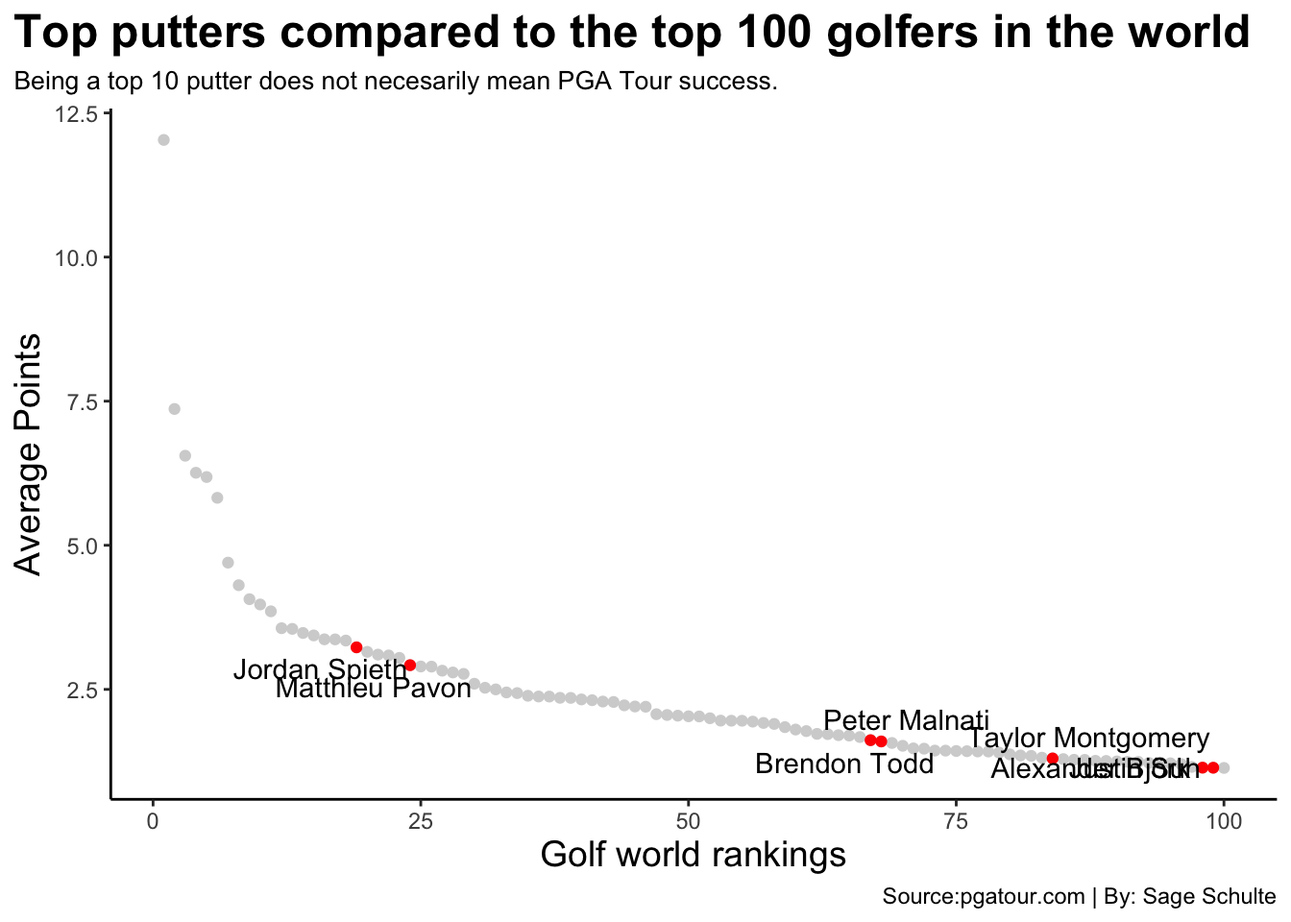
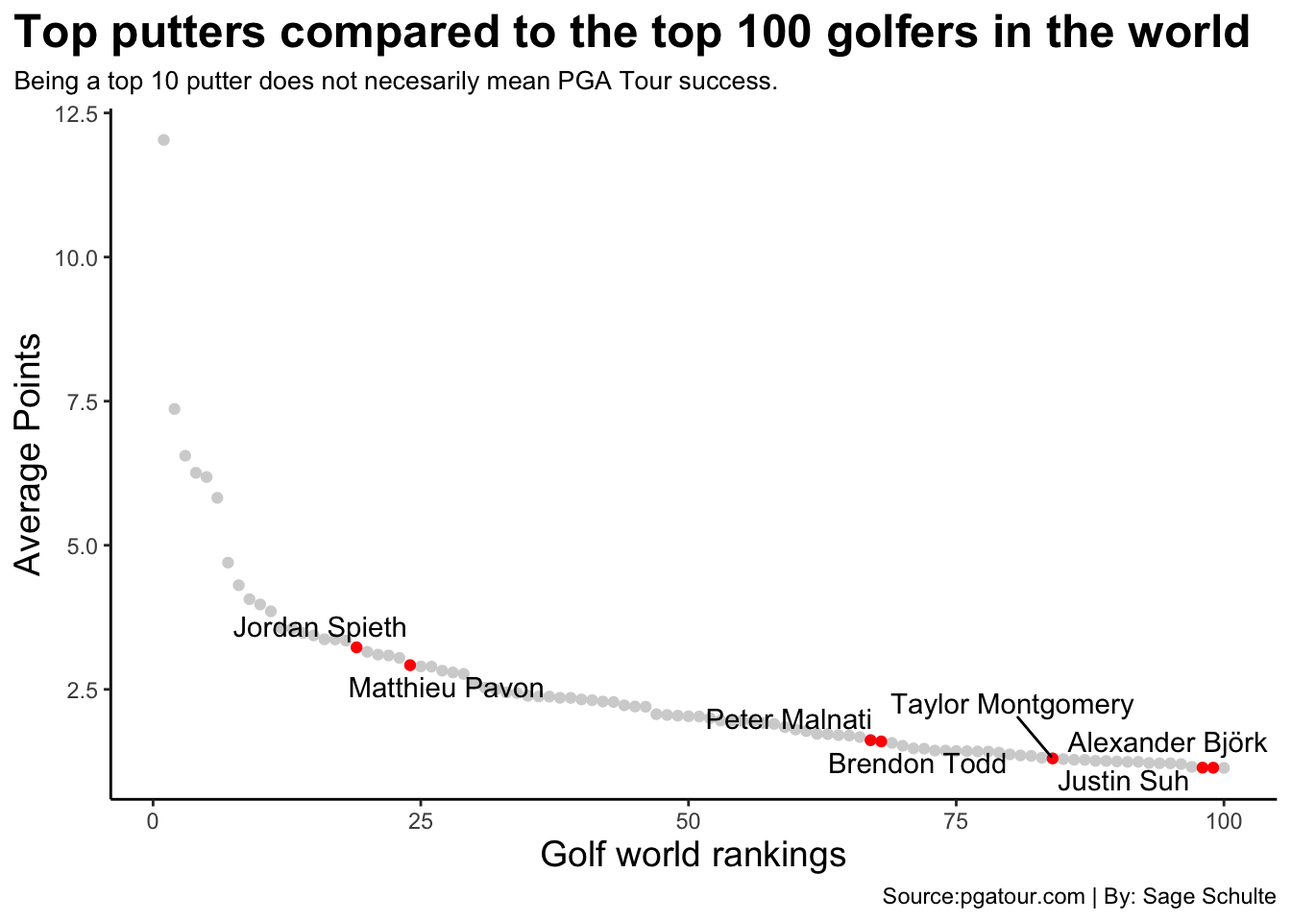
final draft

Changed region(s): [[0.5312, 0.75, 0.9688, 0.875], [0.1875, 0.6562, 0.4062, 0.7812]]

diff --git a/posts/are-good-putters-the-best-golfers/index.html b/posts/are-good-putters-the-best-golfers/index.html
@@ -9,7 +9,7 @@
 <meta name="author" content="Sage Schulte">
 <meta name="dcterms.date" content="2024-04-14">
 
-<title>Sage Schulte’s sports data site - Does being a top ranked putter equate to PGA tournament success?</title>
+<title>Sage Schulte’s sports data site - Does being great at putting equate to PGA tournament success?</title>
 <style>
 code{white-space: pre-wrap;}
 span.smallcaps{font-variant: small-caps;}
@@ -149,7 +149,7 @@ pre > code.sourceCode > span > a:first-child::before { text-decoration: underlin
 <header id="title-block-header" class="quarto-title-block default page-columns page-full">
   <div class="quarto-title-banner page-columns page-full">
     <div class="quarto-title column-body">
-      <h1 class="title">Does being a top ranked putter equate to PGA tournament success?</h1>
+      <h1 class="title">Does being great at putting equate to PGA tournament success?</h1>
                                 <div class="quarto-categories">
                 <div class="quarto-category">golf</div>
                 <div class="quarto-category">putting</div>
@@ -190,7 +190,9 @@ pre > code.sourceCode > span > a:first-child::before { text-decoration: underlin
 
 
 
-<p>text here……</p>
+<p>There is a famous expression in the world of golf; drive for show, putt for dough. Does this expression hold any weight or is it just something people say when they top their drive off the tee box to make up for their atrocious shot? To find out if this expression is just an expression or something more, let’s use data to reach a clearer conclusion. The PGA website has the data needed for this.</p>
+<p>The PGA tour website has a statistics section, and the best way to determine if a player is good at putting is the strokes gained putting (SG: Putting) statistic. Strokes gained putting basically means if a player has a putt from say 10 feet, the SG: Putting data algorithm will state how many strokes it will take to hole out from that distance and from that specific spot on that specific green. For example; Tiger Woods has a putt from seven feet and the SG: Putting baseline is 1.5 putts to hole out. If Woods makes the putt in one stroke, he gains +0.5 to his SG Putting and if it takes him 2 strokes then he would lose 0.5.</p>
+<p>So, let’s look at the top 100 golfers in the world and see where, and if, the top 10 putters according to strokes gained putting average are anywhere in the top 100 world golfers this year.</p>
 <div class="cell">
 <details class="code-fold">
 <summary>Code</summary>
@@ -216,37 +218,33 @@ pre > code.sourceCode > span > a:first-child::before { text-decoration: underlin
 <span id="cb1-20"><a href="#cb1-20" aria-hidden="true" tabindex="-1"></a>jsu <span class="ot">&lt;-</span> top100 <span class="sc">|&gt;</span> <span class="fu">filter</span>(PLAYER<span class="sc">==</span> <span class="st">"Justin Suh"</span>)</span>
 <span id="cb1-21"><a href="#cb1-21" aria-hidden="true" tabindex="-1"></a>bt <span class="ot">&lt;-</span> top100 <span class="sc">|&gt;</span> <span class="fu">filter</span>(PLAYER<span class="sc">==</span> <span class="st">"Brendon Todd"</span>)</span>
 <span id="cb1-22"><a href="#cb1-22" aria-hidden="true" tabindex="-1"></a></span>
-<span id="cb1-23"><a href="#cb1-23" aria-hidden="true" tabindex="-1"></a><span class="fu">ggplot</span>() <span class="sc">+</span></span>
-<span id="cb1-24"><a href="#cb1-24" aria-hidden="true" tabindex="-1"></a>  <span class="fu">geom_point</span>(<span class="at">data=</span>top100, <span class="fu">aes</span>(<span class="at">x=</span>NK, <span class="at">y=</span><span class="st">`</span><span class="at">AVG POINTS</span><span class="st">`</span>), <span class="at">color=</span><span class="st">"lightgrey"</span>) <span class="sc">+</span></span>
-<span id="cb1-25"><a href="#cb1-25" aria-hidden="true" tabindex="-1"></a>  <span class="fu">geom_point</span>(<span class="at">data=</span>tm, <span class="fu">aes</span>(<span class="at">x=</span>NK, <span class="at">y=</span><span class="st">`</span><span class="at">AVG POINTS</span><span class="st">`</span>), <span class="at">color=</span><span class="st">"red"</span>) <span class="sc">+</span></span>
-<span id="cb1-26"><a href="#cb1-26" aria-hidden="true" tabindex="-1"></a>  <span class="fu">geom_point</span>(<span class="at">data=</span>pm, <span class="fu">aes</span>(<span class="at">x=</span>NK, <span class="at">y=</span><span class="st">`</span><span class="at">AVG POINTS</span><span class="st">`</span>), <span class="at">color=</span><span class="st">"red"</span>) <span class="sc">+</span></span>
-<span id="cb1-27"><a href="#cb1-27" aria-hidden="true" tabindex="-1"></a>  <span class="fu">geom_point</span>(<span class="at">data=</span>mp, <span class="fu">aes</span>(<span class="at">x=</span>NK, <span class="at">y=</span><span class="st">`</span><span class="at">AVG POINTS</span><span class="st">`</span>), <span class="at">color=</span><span class="st">"red"</span>) <span class="sc">+</span></span>
-<span id="cb1-28"><a href="#cb1-28" aria-hidden="true" tabindex="-1"></a>  <span class="fu">geom_point</span>(<span class="at">data=</span>js, <span class="fu">aes</span>(<span class="at">x=</span>NK, <span class="at">y=</span><span class="st">`</span><span class="at">AVG POINTS</span><span class="st">`</span>), <span class="at">color=</span><span class="st">"red"</span>) <span class="sc">+</span></span>
-<span id="cb1-29"><a href="#cb1-29" aria-hidden="true" tabindex="-1"></a>  <span class="fu">geom_point</span>(<span class="at">data=</span>abj, <span class="fu">aes</span>(<span class="at">x=</span>NK, <span class="at">y=</span><span class="st">`</span><span class="at">AVG POINTS</span><span class="st">`</span>), <span class="at">color=</span><span class="st">"red"</span>) <span class="sc">+</span></span>
-<span id="cb1-30"><a href="#cb1-30" aria-hidden="true" tabindex="-1"></a>  <span class="fu">geom_point</span>(<span class="at">data=</span>jsu, <span class="fu">aes</span>(<span class="at">x=</span>NK, <span class="at">y=</span><span class="st">`</span><span class="at">AVG POINTS</span><span class="st">`</span>), <span class="at">color=</span><span class="st">"red"</span>) <span class="sc">+</span></span>
-<span id="cb1-31"><a href="#cb1-31" aria-hidden="true" tabindex="-1"></a>  <span class="fu">geom_point</span>(<span class="at">data=</span>bt, <span class="fu">aes</span>(<span class="at">x=</span>NK, <span class="at">y=</span><span class="st">`</span><span class="at">AVG POINTS</span><span class="st">`</span>), <span class="at">color=</span><span class="st">"red"</span>) <span class="sc">+</span></span>
-<span id="cb1-32"><a href="#cb1-32" aria-hidden="true" tabindex="-1"></a>  <span class="fu">geom_text_repel</span>(<span class="at">data=</span>tm, <span class="fu">aes</span>(<span class="at">x=</span>NK, <span class="at">y=</span><span class="st">`</span><span class="at">AVG POINTS</span><span class="st">`</span>, <span class="at">label=</span>PLAYER)) <span class="sc">+</span></span>
-<span id="cb1-33"><a href="#cb1-33" aria-hidden="true" tabindex="-1"></a>   <span class="fu">geom_text_repel</span>(<span class="at">data=</span>pm, <span class="fu">aes</span>(<span class="at">x=</span>NK, <span class="at">y=</span><span class="st">`</span><span class="at">AVG POINTS</span><span class="st">`</span>, <span class="at">label=</span>PLAYER)) <span class="sc">+</span></span>
-<span id="cb1-34"><a href="#cb1-34" aria-hidden="true" tabindex="-1"></a>   <span class="fu">geom_text_repel</span>(<span class="at">data=</span>mp, <span class="fu">aes</span>(<span class="at">x=</span>NK, <span class="at">y=</span><span class="st">`</span><span class="at">AVG POINTS</span><span class="st">`</span>, <span class="at">label=</span>PLAYER)) <span class="sc">+</span></span>
-<span id="cb1-35"><a href="#cb1-35" aria-hidden="true" tabindex="-1"></a>   <span class="fu">geom_text_repel</span>(<span class="at">data=</span>js, <span class="fu">aes</span>(<span class="at">x=</span>NK, <span class="at">y=</span><span class="st">`</span><span class="at">AVG POINTS</span><span class="st">`</span>, <span class="at">label=</span>PLAYER)) <span class="sc">+</span></span>
-<span id="cb1-36"><a href="#cb1-36" aria-hidden="true" tabindex="-1"></a>   <span class="fu">geom_text_repel</span>(<span class="at">data=</span>abj, <span class="fu">aes</span>(<span class="at">x=</span>NK, <span class="at">y=</span><span class="st">`</span><span class="at">AVG POINTS</span><span class="st">`</span>, <span class="at">label=</span>PLAYER)) <span class="sc">+</span></span>
-<span id="cb1-37"><a href="#cb1-37" aria-hidden="true" tabindex="-1"></a>   <span class="fu">geom_text_repel</span>(<span class="at">data=</span>jsu, <span class="fu">aes</span>(<span class="at">x=</span>NK, <span class="at">y=</span><span class="st">`</span><span class="at">AVG POINTS</span><span class="st">`</span>, <span class="at">label=</span>PLAYER)) <span class="sc">+</span></span>
-<span id="cb1-38"><a href="#cb1-38" aria-hidden="true" tabindex="-1"></a>   <span class="fu">geom_text_repel</span>(<span class="at">data=</span>bt, <span class="fu">aes</span>(<span class="at">x=</span>NK, <span class="at">y=</span><span class="st">`</span><span class="at">AVG POINTS</span><span class="st">`</span>, <span class="at">label=</span>PLAYER)) <span class="sc">+</span></span>
-<span id="cb1-39"><a href="#cb1-39" aria-hidden="true" tabindex="-1"></a>  <span class="fu">labs</span>(</span>
-<span id="cb1-40"><a href="#cb1-40" aria-hidden="true" tabindex="-1"></a>    <span class="at">x=</span><span class="st">"Golf world rankings"</span>,</span>
-<span id="cb1-41"><a href="#cb1-41" aria-hidden="true" tabindex="-1"></a>    <span class="at">y=</span><span class="st">"Average Points"</span>,</span>
-<span id="cb1-42"><a href="#cb1-42" aria-hidden="true" tabindex="-1"></a>    <span class="at">title=</span><span class="st">"Top putters compared to the top 100 golfers in the world"</span>,</span>
-<span id="cb1-43"><a href="#cb1-43" aria-hidden="true" tabindex="-1"></a>    <span class="at">subtitle=</span><span class="st">"Being a top 10 putter does not necesarily mean PGA Tour success."</span>,</span>
-<span id="cb1-44"><a href="#cb1-44" aria-hidden="true" tabindex="-1"></a>    <span class="at">caption=</span><span class="st">"Source:pgatour.com | By: Sage Schulte"</span></span>
-<span id="cb1-45"><a href="#cb1-45" aria-hidden="true" tabindex="-1"></a>  ) <span class="sc">+</span></span>
-<span id="cb1-46"><a href="#cb1-46" aria-hidden="true" tabindex="-1"></a>  <span class="fu">theme_classic</span>() <span class="sc">+</span></span>
-<span id="cb1-47"><a href="#cb1-47" aria-hidden="true" tabindex="-1"></a>  <span class="fu">theme</span>(</span>
-<span id="cb1-48"><a href="#cb1-48" aria-hidden="true" tabindex="-1"></a>    <span class="at">plot.title =</span> <span class="fu">element_text</span>(<span class="at">size =</span> <span class="dv">18</span>, <span class="at">face =</span> <span class="st">"bold"</span>),</span>
-<span id="cb1-49"><a href="#cb1-49" aria-hidden="true" tabindex="-1"></a>    <span class="at">axis.title =</span> <span class="fu">element_text</span>(<span class="at">size =</span> <span class="dv">14</span>), </span>
-<span id="cb1-50"><a href="#cb1-50" aria-hidden="true" tabindex="-1"></a>    <span class="at">plot.subtitle =</span> <span class="fu">element_text</span>(<span class="at">size=</span><span class="dv">10</span>), </span>
-<span id="cb1-51"><a href="#cb1-51" aria-hidden="true" tabindex="-1"></a>    <span class="at">panel.grid.minor =</span> <span class="fu">element_blank</span>(),</span>
-<span id="cb1-52"><a href="#cb1-52" aria-hidden="true" tabindex="-1"></a>    <span class="at">plot.title.position =</span> <span class="st">"plot"</span></span>
-<span id="cb1-53"><a href="#cb1-53" aria-hidden="true" tabindex="-1"></a>    ) </span></code><button title="Copy to Clipboard" class="code-copy-button"><i class="bi"></i></button></pre></div>
+<span id="cb1-23"><a href="#cb1-23" aria-hidden="true" tabindex="-1"></a>putterlabels <span class="ot">&lt;-</span> <span class="fu">bind_rows</span>(tm, pm, mp, js, abj, jsu, bt)</span>
+<span id="cb1-24"><a href="#cb1-24" aria-hidden="true" tabindex="-1"></a></span>
+<span id="cb1-25"><a href="#cb1-25" aria-hidden="true" tabindex="-1"></a><span class="fu">ggplot</span>() <span class="sc">+</span></span>
+<span id="cb1-26"><a href="#cb1-26" aria-hidden="true" tabindex="-1"></a>  <span class="fu">geom_point</span>(<span class="at">data=</span>top100, <span class="fu">aes</span>(<span class="at">x=</span>NK, <span class="at">y=</span><span class="st">`</span><span class="at">AVG POINTS</span><span class="st">`</span>), <span class="at">color=</span><span class="st">"lightgrey"</span>) <span class="sc">+</span></span>
+<span id="cb1-27"><a href="#cb1-27" aria-hidden="true" tabindex="-1"></a>  <span class="fu">geom_point</span>(<span class="at">data=</span>tm, <span class="fu">aes</span>(<span class="at">x=</span>NK, <span class="at">y=</span><span class="st">`</span><span class="at">AVG POINTS</span><span class="st">`</span>), <span class="at">color=</span><span class="st">"red"</span>) <span class="sc">+</span></span>
+<span id="cb1-28"><a href="#cb1-28" aria-hidden="true" tabindex="-1"></a>  <span class="fu">geom_point</span>(<span class="at">data=</span>pm, <span class="fu">aes</span>(<span class="at">x=</span>NK, <span class="at">y=</span><span class="st">`</span><span class="at">AVG POINTS</span><span class="st">`</span>), <span class="at">color=</span><span class="st">"red"</span>) <span class="sc">+</span></span>
+<span id="cb1-29"><a href="#cb1-29" aria-hidden="true" tabindex="-1"></a>  <span class="fu">geom_point</span>(<span class="at">data=</span>mp, <span class="fu">aes</span>(<span class="at">x=</span>NK, <span class="at">y=</span><span class="st">`</span><span class="at">AVG POINTS</span><span class="st">`</span>), <span class="at">color=</span><span class="st">"red"</span>) <span class="sc">+</span></span>
+<span id="cb1-30"><a href="#cb1-30" aria-hidden="true" tabindex="-1"></a>  <span class="fu">geom_point</span>(<span class="at">data=</span>js, <span class="fu">aes</span>(<span class="at">x=</span>NK, <span class="at">y=</span><span class="st">`</span><span class="at">AVG POINTS</span><span class="st">`</span>), <span class="at">color=</span><span class="st">"red"</span>) <span class="sc">+</span></span>
+<span id="cb1-31"><a href="#cb1-31" aria-hidden="true" tabindex="-1"></a>  <span class="fu">geom_point</span>(<span class="at">data=</span>abj, <span class="fu">aes</span>(<span class="at">x=</span>NK, <span class="at">y=</span><span class="st">`</span><span class="at">AVG POINTS</span><span class="st">`</span>), <span class="at">color=</span><span class="st">"red"</span>) <span class="sc">+</span></span>
+<span id="cb1-32"><a href="#cb1-32" aria-hidden="true" tabindex="-1"></a>  <span class="fu">geom_point</span>(<span class="at">data=</span>jsu, <span class="fu">aes</span>(<span class="at">x=</span>NK, <span class="at">y=</span><span class="st">`</span><span class="at">AVG POINTS</span><span class="st">`</span>), <span class="at">color=</span><span class="st">"red"</span>) <span class="sc">+</span></span>
+<span id="cb1-33"><a href="#cb1-33" aria-hidden="true" tabindex="-1"></a>  <span class="fu">geom_point</span>(<span class="at">data=</span>bt, <span class="fu">aes</span>(<span class="at">x=</span>NK, <span class="at">y=</span><span class="st">`</span><span class="at">AVG POINTS</span><span class="st">`</span>), <span class="at">color=</span><span class="st">"red"</span>) <span class="sc">+</span></span>
+<span id="cb1-34"><a href="#cb1-34" aria-hidden="true" tabindex="-1"></a>  <span class="fu">geom_text_repel</span>(<span class="at">data=</span>putterlabels, <span class="fu">aes</span>(<span class="at">x=</span>NK, <span class="at">y=</span><span class="st">`</span><span class="at">AVG POINTS</span><span class="st">`</span>, <span class="at">label=</span>PLAYER)) <span class="sc">+</span></span>
+<span id="cb1-35"><a href="#cb1-35" aria-hidden="true" tabindex="-1"></a>  <span class="fu">labs</span>(</span>
+<span id="cb1-36"><a href="#cb1-36" aria-hidden="true" tabindex="-1"></a>    <span class="at">x=</span><span class="st">"Golf world rankings"</span>,</span>
+<span id="cb1-37"><a href="#cb1-37" aria-hidden="true" tabindex="-1"></a>    <span class="at">y=</span><span class="st">"Average Points"</span>,</span>
+<span id="cb1-38"><a href="#cb1-38" aria-hidden="true" tabindex="-1"></a>    <span class="at">title=</span><span class="st">"Top putters compared to the top 100 golfers in the world"</span>,</span>
+<span id="cb1-39"><a href="#cb1-39" aria-hidden="true" tabindex="-1"></a>    <span class="at">subtitle=</span><span class="st">"Being a top 10 putter does not necesarily mean PGA Tour success."</span>,</span>
+<span id="cb1-40"><a href="#cb1-40" aria-hidden="true" tabindex="-1"></a>    <span class="at">caption=</span><span class="st">"Source:pgatour.com | By: Sage Schulte"</span></span>
+<span id="cb1-41"><a href="#cb1-41" aria-hidden="true" tabindex="-1"></a>  ) <span class="sc">+</span></span>
+<span id="cb1-42"><a href="#cb1-42" aria-hidden="true" tabindex="-1"></a>  <span class="fu">theme_classic</span>() <span class="sc">+</span></span>
+<span id="cb1-43"><a href="#cb1-43" aria-hidden="true" tabindex="-1"></a>  <span class="fu">theme</span>(</span>
+<span id="cb1-44"><a href="#cb1-44" aria-hidden="true" tabindex="-1"></a>    <span class="at">plot.title =</span> <span class="fu">element_text</span>(<span class="at">size =</span> <span class="dv">18</span>, <span class="at">face =</span> <span class="st">"bold"</span>),</span>
+<span id="cb1-45"><a href="#cb1-45" aria-hidden="true" tabindex="-1"></a>    <span class="at">axis.title =</span> <span class="fu">element_text</span>(<span class="at">size =</span> <span class="dv">14</span>), </span>
+<span id="cb1-46"><a href="#cb1-46" aria-hidden="true" tabindex="-1"></a>    <span class="at">plot.subtitle =</span> <span class="fu">element_text</span>(<span class="at">size=</span><span class="dv">10</span>), </span>
+<span id="cb1-47"><a href="#cb1-47" aria-hidden="true" tabindex="-1"></a>    <span class="at">panel.grid.minor =</span> <span class="fu">element_blank</span>(),</span>
+<span id="cb1-48"><a href="#cb1-48" aria-hidden="true" tabindex="-1"></a>    <span class="at">plot.title.position =</span> <span class="st">"plot"</span></span>
+<span id="cb1-49"><a href="#cb1-49" aria-hidden="true" tabindex="-1"></a>    ) </span></code><button title="Copy to Clipboard" class="code-copy-button"><i class="bi"></i></button></pre></div>
 </details>
 <div class="cell-output-display">
 <div>
@@ -256,7 +254,8 @@ pre > code.sourceCode > span > a:first-child::before { text-decoration: underlin
 </div>
 </div>
 </div>
-<p>more text here</p>
+<p>Only seven of the top 10 putters are in the top 100-cut line. Of those seven, only two golfers are ranked in the top 50. The three putters that are left out of the top 100 golfers in the world are Aaron Baddeley (204), Chad Ramey (230) and Raul Pereda (888).</p>
+<p>Let’s also look at the inverse and see where the top five golfers in the world stack up in the top 100 strokes gained putting rankings.</p>
 <div class="cell">
 <details class="code-fold">
 <summary>Code</summary>
@@ -267,30 +266,29 @@ pre > code.sourceCode > span > a:first-child::before { text-decoration: underlin
 <span id="cb2-5"><a href="#cb2-5" aria-hidden="true" tabindex="-1"></a>wk <span class="ot">&lt;-</span> sgputting100 <span class="sc">|&gt;</span> <span class="fu">filter</span>(PLAYER <span class="sc">==</span> <span class="st">"Wyndham Clark"</span>) </span>
 <span id="cb2-6"><a href="#cb2-6" aria-hidden="true" tabindex="-1"></a>xs <span class="ot">&lt;-</span> sgputting100 <span class="sc">|&gt;</span> <span class="fu">filter</span>(PLAYER <span class="sc">==</span> <span class="st">"Xander Schauffele"</span>) </span>
 <span id="cb2-7"><a href="#cb2-7" aria-hidden="true" tabindex="-1"></a></span>
-<span id="cb2-8"><a href="#cb2-8" aria-hidden="true" tabindex="-1"></a><span class="fu">ggplot</span>()<span class="sc">+</span></span>
-<span id="cb2-9"><a href="#cb2-9" aria-hidden="true" tabindex="-1"></a>  <span class="fu">geom_point</span>(<span class="at">data=</span>sgputting100, <span class="fu">aes</span>(<span class="at">x=</span>RANK, <span class="at">y=</span>AVG), <span class="at">color=</span><span class="st">"lightgrey"</span>) <span class="sc">+</span></span>
-<span id="cb2-10"><a href="#cb2-10" aria-hidden="true" tabindex="-1"></a>  <span class="fu">geom_point</span>(<span class="at">data=</span>ss, <span class="fu">aes</span>(<span class="at">x=</span>RANK, <span class="at">y=</span>AVG), <span class="at">color=</span><span class="st">"green"</span>) <span class="sc">+</span></span>
-<span id="cb2-11"><a href="#cb2-11" aria-hidden="true" tabindex="-1"></a>  <span class="fu">geom_point</span>(<span class="at">data=</span>rm, <span class="fu">aes</span>(<span class="at">x=</span>RANK, <span class="at">y=</span>AVG), <span class="at">color=</span><span class="st">"green"</span>) <span class="sc">+</span></span>
-<span id="cb2-12"><a href="#cb2-12" aria-hidden="true" tabindex="-1"></a>  <span class="fu">geom_point</span>(<span class="at">data=</span>wk, <span class="fu">aes</span>(<span class="at">x=</span>RANK, <span class="at">y=</span>AVG), <span class="at">color=</span><span class="st">"green"</span>) <span class="sc">+</span></span>
-<span id="cb2-13"><a href="#cb2-13" aria-hidden="true" tabindex="-1"></a>  <span class="fu">geom_point</span>(<span class="at">data=</span>xs, <span class="fu">aes</span>(<span class="at">x=</span>RANK, <span class="at">y=</span>AVG), <span class="at">color=</span><span class="st">"green"</span>) <span class="sc">+</span></span>
-<span id="cb2-14"><a href="#cb2-14" aria-hidden="true" tabindex="-1"></a>   <span class="fu">geom_text_repel</span>(<span class="at">data=</span>ss, <span class="fu">aes</span>(<span class="at">x=</span>RANK, <span class="at">y=</span>AVG, <span class="at">label=</span>PLAYER)) <span class="sc">+</span></span>
-<span id="cb2-15"><a href="#cb2-15" aria-hidden="true" tabindex="-1"></a>   <span class="fu">geom_text_repel</span>(<span class="at">data=</span>rm, <span class="fu">aes</span>(<span class="at">x=</span>RANK, <span class="at">y=</span>AVG, <span class="at">label=</span>PLAYER)) <span class="sc">+</span></span>
-<span id="cb2-16"><a href="#cb2-16" aria-hidden="true" tabindex="-1"></a>   <span class="fu">geom_text_repel</span>(<span class="at">data=</span>wk, <span class="fu">aes</span>(<span class="at">x=</span>RANK, <span class="at">y=</span>AVG, <span class="at">label=</span>PLAYER)) <span class="sc">+</span></span>
-<span id="cb2-17"><a href="#cb2-17" aria-hidden="true" tabindex="-1"></a>   <span class="fu">geom_text_repel</span>(<span class="at">data=</span>xs, <span class="fu">aes</span>(<span class="at">x=</span>RANK, <span class="at">y=</span>AVG, <span class="at">label=</span>PLAYER)) <span class="sc">+</span></span>
-<span id="cb2-18"><a href="#cb2-18" aria-hidden="true" tabindex="-1"></a>  <span class="fu">labs</span>(</span>
-<span id="cb2-19"><a href="#cb2-19" aria-hidden="true" tabindex="-1"></a>    <span class="at">x=</span><span class="st">"Putting rank"</span>,</span>
-<span id="cb2-20"><a href="#cb2-20" aria-hidden="true" tabindex="-1"></a>    <span class="at">y=</span><span class="st">"Strokes gained average"</span>,</span>
-<span id="cb2-21"><a href="#cb2-21" aria-hidden="true" tabindex="-1"></a>    <span class="at">title=</span><span class="st">"Top golfers in the wolrd rankings compared to the best putters"</span>,</span>
-<span id="cb2-22"><a href="#cb2-22" aria-hidden="true" tabindex="-1"></a>    <span class="at">subtitle=</span><span class="st">"Golfers do not have to be great at putting to be a top ranked player."</span>,</span>
-<span id="cb2-23"><a href="#cb2-23" aria-hidden="true" tabindex="-1"></a>    <span class="at">caption=</span><span class="st">"Source:pgatour.com | By: Sage Schulte"</span></span>
-<span id="cb2-24"><a href="#cb2-24" aria-hidden="true" tabindex="-1"></a>  ) <span class="sc">+</span></span>
-<span id="cb2-25"><a href="#cb2-25" aria-hidden="true" tabindex="-1"></a>  <span class="fu">theme_classic</span>() <span class="sc">+</span></span>
-<span id="cb2-26"><a href="#cb2-26" aria-hidden="true" tabindex="-1"></a>  <span class="fu">theme</span>(</span>
-<span id="cb2-27"><a href="#cb2-27" aria-hidden="true" tabindex="-1"></a>    <span class="at">plot.title =</span> <span class="fu">element_text</span>(<span class="at">size =</span> <span class="dv">14</span>, <span class="at">face =</span> <span class="st">"bold"</span>),</span>
-<span id="cb2-28"><a href="#cb2-28" aria-hidden="true" tabindex="-1"></a>    <span class="at">axis.title =</span> <span class="fu">element_text</span>(<span class="at">size =</span> <span class="dv">12</span>), </span>
-<span id="cb2-29"><a href="#cb2-29" aria-hidden="true" tabindex="-1"></a>    <span class="at">plot.subtitle =</span> <span class="fu">element_text</span>(<span class="at">size=</span><span class="dv">10</span>), </span>
-<span id="cb2-30"><a href="#cb2-30" aria-hidden="true" tabindex="-1"></a>    <span class="at">panel.grid.minor =</span> <span class="fu">element_blank</span>()</span>
-<span id="cb2-31"><a href="#cb2-31" aria-hidden="true" tabindex="-1"></a>    ) </span></code><button title="Copy to Clipboard" class="code-copy-button"><i class="bi"></i></button></pre></div>
+<span id="cb2-8"><a href="#cb2-8" aria-hidden="true" tabindex="-1"></a>wrlabels <span class="ot">&lt;-</span> <span class="fu">bind_rows</span>(ss, rm, wk, xs) </span>
+<span id="cb2-9"><a href="#cb2-9" aria-hidden="true" tabindex="-1"></a></span>
+<span id="cb2-10"><a href="#cb2-10" aria-hidden="true" tabindex="-1"></a><span class="fu">ggplot</span>()<span class="sc">+</span></span>
+<span id="cb2-11"><a href="#cb2-11" aria-hidden="true" tabindex="-1"></a>  <span class="fu">geom_point</span>(<span class="at">data=</span>sgputting100, <span class="fu">aes</span>(<span class="at">x=</span>RANK, <span class="at">y=</span>AVG), <span class="at">color=</span><span class="st">"lightgrey"</span>) <span class="sc">+</span></span>
+<span id="cb2-12"><a href="#cb2-12" aria-hidden="true" tabindex="-1"></a>  <span class="fu">geom_point</span>(<span class="at">data=</span>ss, <span class="fu">aes</span>(<span class="at">x=</span>RANK, <span class="at">y=</span>AVG), <span class="at">color=</span><span class="st">"blue"</span>) <span class="sc">+</span></span>
+<span id="cb2-13"><a href="#cb2-13" aria-hidden="true" tabindex="-1"></a>  <span class="fu">geom_point</span>(<span class="at">data=</span>rm, <span class="fu">aes</span>(<span class="at">x=</span>RANK, <span class="at">y=</span>AVG), <span class="at">color=</span><span class="st">"blue"</span>) <span class="sc">+</span></span>
+<span id="cb2-14"><a href="#cb2-14" aria-hidden="true" tabindex="-1"></a>  <span class="fu">geom_point</span>(<span class="at">data=</span>wk, <span class="fu">aes</span>(<span class="at">x=</span>RANK, <span class="at">y=</span>AVG), <span class="at">color=</span><span class="st">"blue"</span>) <span class="sc">+</span></span>
+<span id="cb2-15"><a href="#cb2-15" aria-hidden="true" tabindex="-1"></a>  <span class="fu">geom_point</span>(<span class="at">data=</span>xs, <span class="fu">aes</span>(<span class="at">x=</span>RANK, <span class="at">y=</span>AVG), <span class="at">color=</span><span class="st">"blue"</span>) <span class="sc">+</span></span>
+<span id="cb2-16"><a href="#cb2-16" aria-hidden="true" tabindex="-1"></a>   <span class="fu">geom_text_repel</span>(<span class="at">data=</span>wrlabels, <span class="fu">aes</span>(<span class="at">x=</span>RANK, <span class="at">y=</span>AVG, <span class="at">label=</span>PLAYER)) <span class="sc">+</span></span>
+<span id="cb2-17"><a href="#cb2-17" aria-hidden="true" tabindex="-1"></a>  <span class="fu">labs</span>(</span>
+<span id="cb2-18"><a href="#cb2-18" aria-hidden="true" tabindex="-1"></a>    <span class="at">x=</span><span class="st">"Putting rank"</span>,</span>
+<span id="cb2-19"><a href="#cb2-19" aria-hidden="true" tabindex="-1"></a>    <span class="at">y=</span><span class="st">"Strokes gained putting average"</span>,</span>
+<span id="cb2-20"><a href="#cb2-20" aria-hidden="true" tabindex="-1"></a>    <span class="at">title=</span><span class="st">"Top golfers in the wolrd rankings compared to the best putters"</span>,</span>
+<span id="cb2-21"><a href="#cb2-21" aria-hidden="true" tabindex="-1"></a>    <span class="at">subtitle=</span><span class="st">"Golfers do not have to be great at putting to be a top ranked player."</span>,</span>
+<span id="cb2-22"><a href="#cb2-22" aria-hidden="true" tabindex="-1"></a>    <span class="at">caption=</span><span class="st">"Source:pgatour.com | By: Sage Schulte"</span></span>
+<span id="cb2-23"><a href="#cb2-23" aria-hidden="true" tabindex="-1"></a>  ) <span class="sc">+</span></span>
+<span id="cb2-24"><a href="#cb2-24" aria-hidden="true" tabindex="-1"></a>  <span class="fu">theme_classic</span>() <span class="sc">+</span></span>
+<span id="cb2-25"><a href="#cb2-25" aria-hidden="true" tabindex="-1"></a>  <span class="fu">theme</span>(</span>
+<span id="cb2-26"><a href="#cb2-26" aria-hidden="true" tabindex="-1"></a>    <span class="at">plot.title =</span> <span class="fu">element_text</span>(<span class="at">size =</span> <span class="dv">14</span>, <span class="at">face =</span> <span class="st">"bold"</span>),</span>
+<span id="cb2-27"><a href="#cb2-27" aria-hidden="true" tabindex="-1"></a>    <span class="at">axis.title =</span> <span class="fu">element_text</span>(<span class="at">size =</span> <span class="dv">12</span>), </span>
+<span id="cb2-28"><a href="#cb2-28" aria-hidden="true" tabindex="-1"></a>    <span class="at">plot.subtitle =</span> <span class="fu">element_text</span>(<span class="at">size=</span><span class="dv">10</span>), </span>
+<span id="cb2-29"><a href="#cb2-29" aria-hidden="true" tabindex="-1"></a>    <span class="at">panel.grid.minor =</span> <span class="fu">element_blank</span>()</span>
+<span id="cb2-30"><a href="#cb2-30" aria-hidden="true" tabindex="-1"></a>    ) </span></code><button title="Copy to Clipboard" class="code-copy-button"><i class="bi"></i></button></pre></div>
 </details>
 <div class="cell-output-display">
 <div>
@@ -300,7 +298,8 @@ pre > code.sourceCode > span > a:first-child::before { text-decoration: underlin
 </div>
 </div>
 </div>
-<p>more text here</p>
+<p>Some things to note, Scottie Scheffler, the number one golfer in the world, barely cracks the top 100 in strokes gained putting. Also, Wyndham Clark, #4 in the world rankings, is the only one out of the top five that has a strokes gained putting average above a 0.50, the rest of them are very close to having a negative strokes gained putting average. Also, John Rahm was not in the strokes gained putting data set which is why there are only four of the top five golfers in the world on this graph. The best putters are doing okay in the 2024 golf season so far but they are not close by any means to being talked about in the same conversation with the best of the best in golf.</p>
+<p>Let’s get into the money of things, the best putters are playing tournaments almost every weekend. How many wins and top 10 placements do the best putters have since that truly is where the money is at and how pro golfers make a living.</p>
 <div class="cell">
 <details class="code-fold">
 <summary>Code</summary>
@@ -319,7 +318,7 @@ pre > code.sourceCode > span > a:first-child::before { text-decoration: underlin
 <span id="cb3-13"><a href="#cb3-13" aria-hidden="true" tabindex="-1"></a>    <span class="at">colour_xend =</span> <span class="st">"green"</span>) <span class="sc">+</span></span>
 <span id="cb3-14"><a href="#cb3-14" aria-hidden="true" tabindex="-1"></a>  <span class="fu">theme_minimal</span>() <span class="sc">+</span></span>
 <span id="cb3-15"><a href="#cb3-15" aria-hidden="true" tabindex="-1"></a>   <span class="fu">labs</span>(</span>
-<span id="cb3-16"><a href="#cb3-16" aria-hidden="true" tabindex="-1"></a>     <span class="at">x=</span> <span class="st">"Best tournament finishes this season"</span>,</span>
+<span id="cb3-16"><a href="#cb3-16" aria-hidden="true" tabindex="-1"></a>     <span class="at">x=</span> <span class="st">"Number of finsishes in top 10"</span>,</span>
 <span id="cb3-17"><a href="#cb3-17" aria-hidden="true" tabindex="-1"></a>     <span class="at">y=</span> <span class="st">"Golfers"</span>,</span>
 <span id="cb3-18"><a href="#cb3-18" aria-hidden="true" tabindex="-1"></a>    <span class="at">title=</span><span class="st">"Top 10 and first place finishes for top putters"</span>, </span>
 <span id="cb3-19"><a href="#cb3-19" aria-hidden="true" tabindex="-1"></a>    <span class="at">subtitle =</span> <span class="st">"Number of &lt;span style = 'color:green;'&gt;first&lt;/span&gt; place finishes this season. Number of &lt;span style = 'color:orange;'&gt;top 10&lt;/span&gt; finishes."</span>,</span>
@@ -340,7 +339,9 @@ pre > code.sourceCode > span > a:first-child::before { text-decoration: underlin
 </div>
 </div>
 </div>
-<p>more text here?</p>
+<p>Of the seven best putters that made the top 100 world rankings, only four have at least one top 10 tournament finishes. Of the four, Matthieu Pavon and Peter Malnati are the only golfers to have won a tournament this season.</p>
+<p>Recap: seven of the 10 best putters made the golf world rankings top 100. Two of them are in the top 50 and on the flip side, the best golfers in the world are okay at putting compared to other pro golfers. Interesting.</p>
+<p>Looks like the expression “drive for show, putt for dough” is just an expression after all. Overall, the top putters are not really finding much success this year and might want to work on other parts of their golf game to try and rack up some tournament wins.</p>
 
 
 

diff --git a/index.html b/index.html
@@ -205,7 +205,7 @@ window.Quarto = {
 
 <div class="quarto-listing quarto-listing-container-default" id="listing-listing">
 <div class="list quarto-listing-default">
-<div class="quarto-post image-right" data-index="0" data-categories="golf,putting,world rankings" data-listing-date-sort="1713070800000" data-listing-file-modified-sort="1712951668247" data-listing-date-modified-sort="NaN" data-listing-reading-time-sort="4" data-listing-word-count-sort="637">
+<div class="quarto-post image-right" data-index="0" data-categories="golf,putting,world rankings" data-listing-date-sort="1713070800000" data-listing-file-modified-sort="1713141566025" data-listing-date-modified-sort="NaN" data-listing-reading-time-sort="6" data-listing-word-count-sort="1182">
 <div class="thumbnail">
 <p><a href="./posts/are-good-putters-the-best-golfers/index.html" class="no-external"></a></p><a href="./posts/are-good-putters-the-best-golfers/index.html" class="no-external">
 <p><img src="./posts/are-good-putters-the-best-golfers/image.png" class="thumbnail-image"></p>
@@ -213,7 +213,7 @@ window.Quarto = {
 </div>
 <div class="body">
 <h3 class="no-anchor listing-title">
-<a href="./posts/are-good-putters-the-best-golfers/index.html" class="no-external">Does being a top ranked putter equate to PGA tournament success?</a>
+<a href="./posts/are-good-putters-the-best-golfers/index.html" class="no-external">Does being great at putting equate to PGA tournament success?</a>
 </h3>
 <div class="listing-subtitle">
 <a href="./posts/are-good-putters-the-best-golfers/index.html" class="no-external"></a>
@@ -230,7 +230,7 @@ world rankings
 </div>
 </div>
 <div class="listing-description">
-<a href="./posts/are-good-putters-the-best-golfers/index.html" class="no-external">text here……</a>
+<a href="./posts/are-good-putters-the-best-golfers/index.html" class="no-external">There is a famous expression in the world of golf; drive for show, putt for dough. Does this expression hold any weight or is it just something people say when they top…</a>
 </div>
 </div>
 <div class="metadata">
